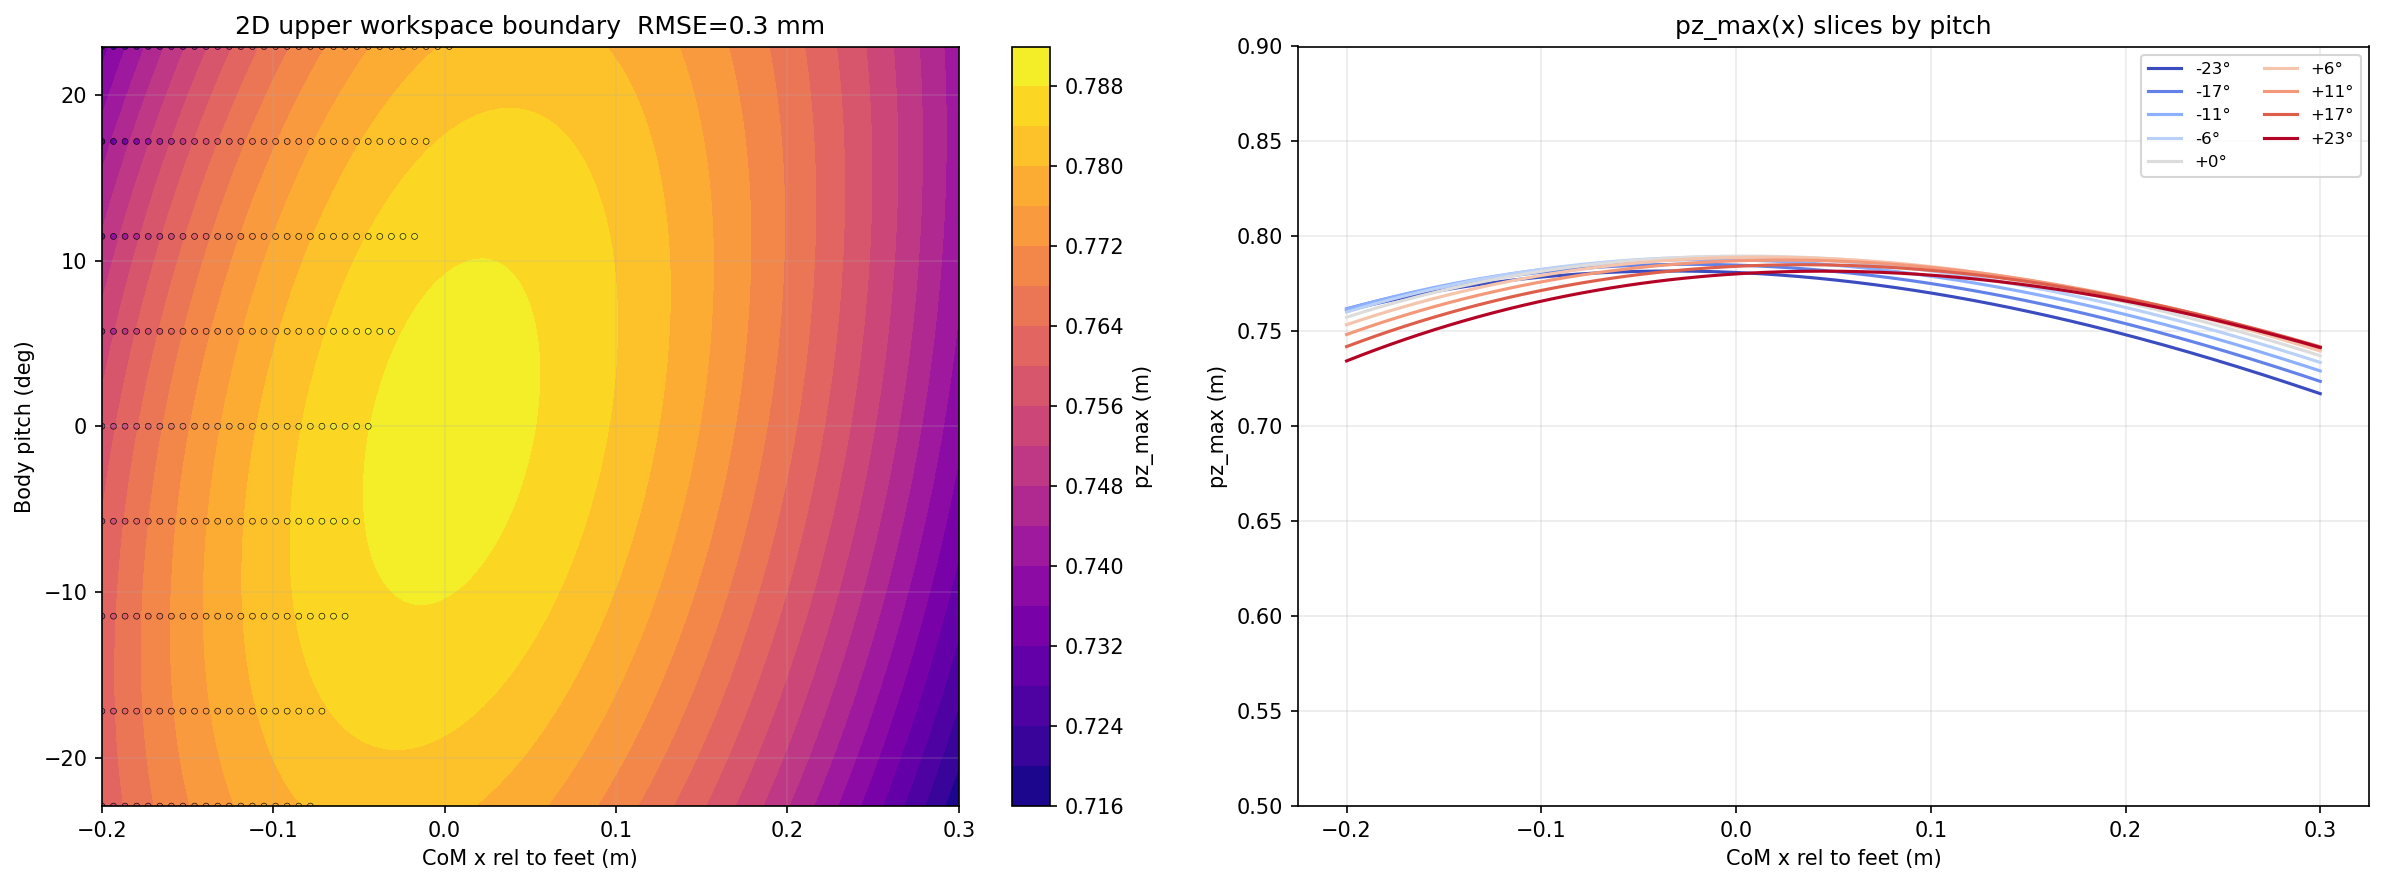
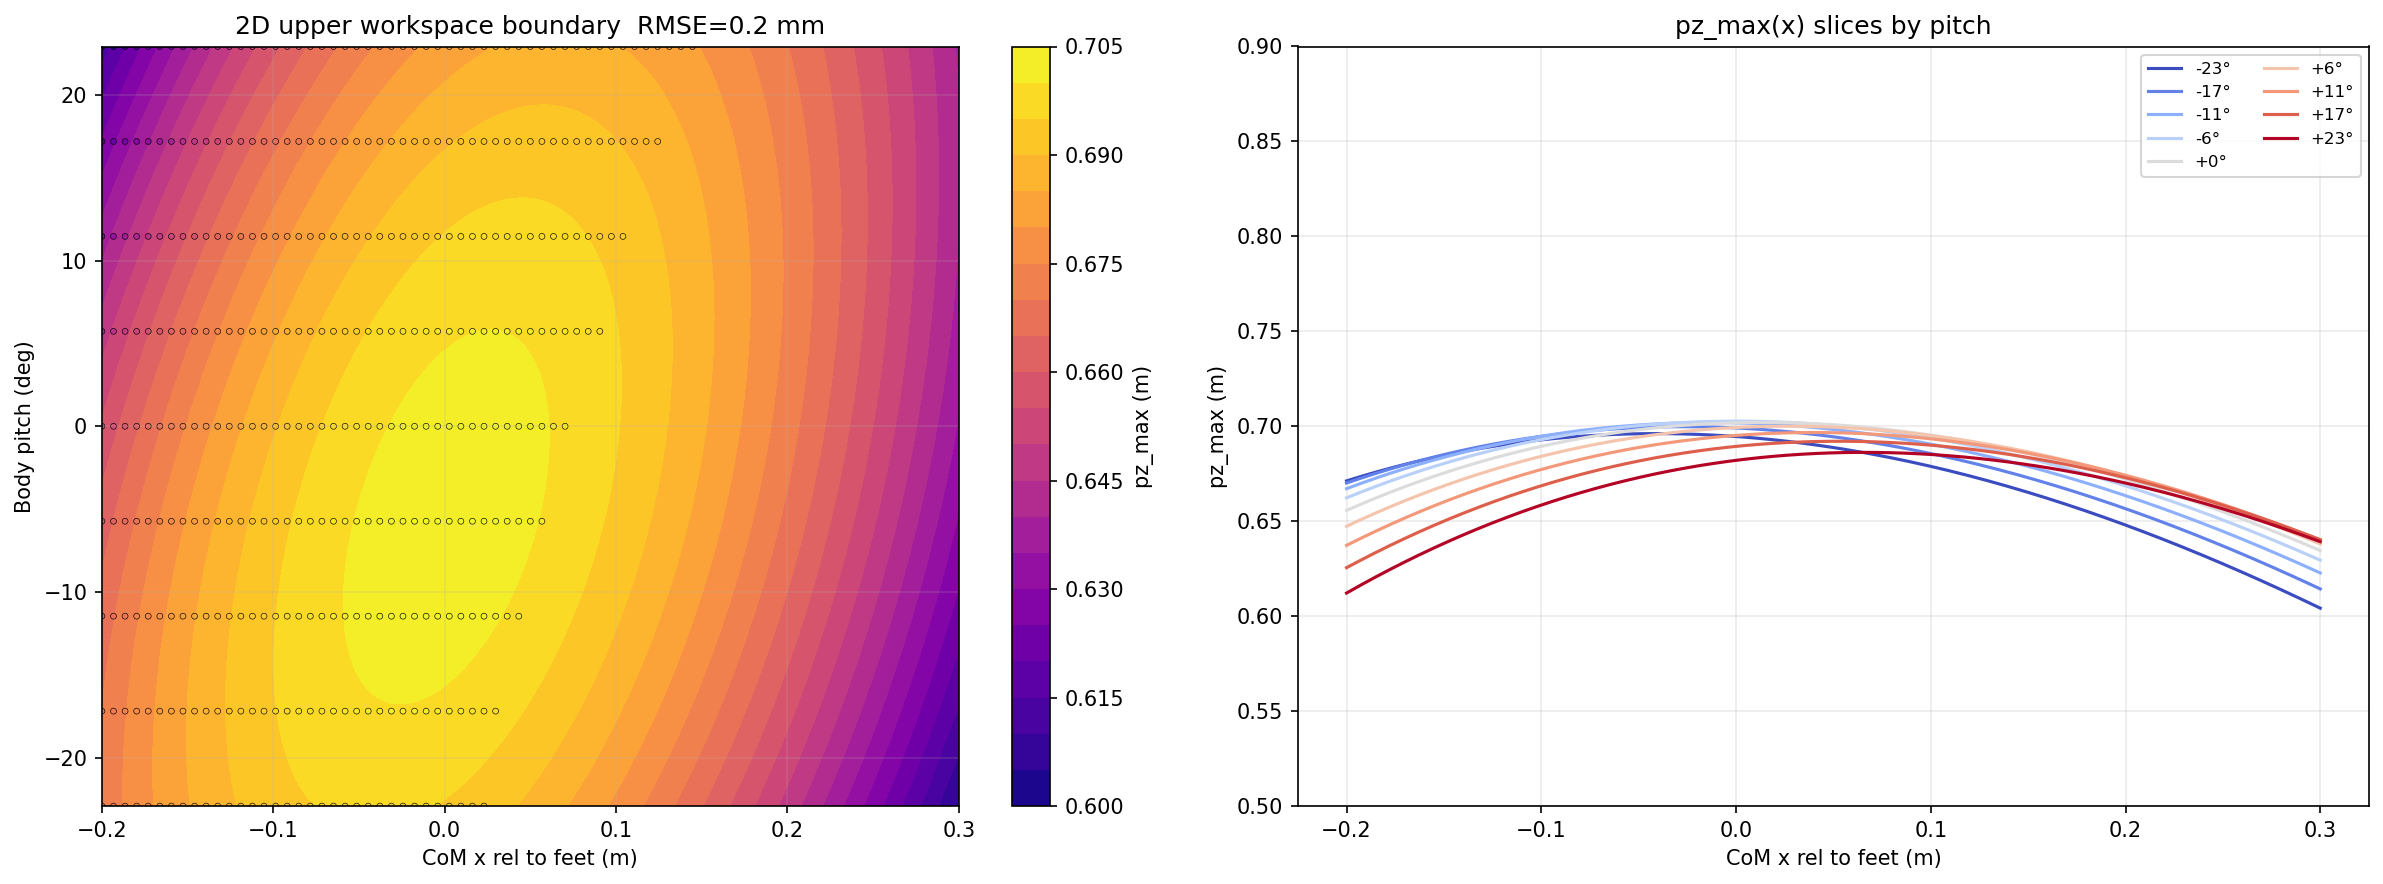
forward jump mostly working except 3cm ik error at touchdown

diff --git a/ik/squat_workspace_upper.py b/ik/squat_workspace_upper.py
@@ -29,16 +29,24 @@ import matplotlib
 matplotlib.use("Agg")
 import matplotlib.pyplot as plt
 
-from utils.kinematics.g1_ik import G1IK
+from utils.kinematics.g1_ipopt_ik import G1IPOPTIK
 
 _OUT_DIR = os.path.join(os.path.dirname(os.path.abspath(__file__)), "results")
 os.makedirs(_OUT_DIR, exist_ok=True)
 
-ik = G1IK()
+# Use IPOPTIK so the sweep measures pz_max in CoM-height units, matching the SRB
+# constraint.  G1IK fixes the pelvis height which is ~0.089 m above the CoM —
+# using it would over-estimate pz_max and leave a blind spot at near-full extension.
+ik = G1IPOPTIK()
 
 R_flat  = np.eye(3)
-oMl_des = pin.SE3(R_flat, np.array([0.0,  G1IK.HIP_WIDTH, G1IK.ANKLE_HEIGHT]))
-oMr_des = pin.SE3(R_flat, np.array([0.0, -G1IK.HIP_WIDTH, G1IK.ANKLE_HEIGHT]))
+oMl_des = pin.SE3(R_flat, np.array([0.0,  G1IPOPTIK.HIP_WIDTH, G1IPOPTIK.ANKLE_HEIGHT]))
+oMr_des = pin.SE3(R_flat, np.array([0.0, -G1IPOPTIK.HIP_WIDTH, G1IPOPTIK.ANKLE_HEIGHT]))
+
+# CoM-to-pelvis vertical offset for a near-standing G1 configuration.
+# Used to seed the pelvis initial-guess higher than the CoM target so IPOPT
+# starts near the feasible region rather than from below.
+_COM_PELVIS_OFFSET = 0.089
 
 PITCHES_SWEEP = np.linspace(-0.40, 0.40, 9)   # rad
 
@@ -51,66 +59,64 @@ def _set_pitch(q, pitch_rad):
     return q
 
 
-def _guesses(x, z, pitch):
-    NOMINAL_H = 0.79
-    drop = max(0.0, NOMINAL_H - z)
-
-    qA = ik.standing_config(com_height=z)
-    qA[0] = x
-
-    qB = pin.neutral(ik.model)
-    qB[0] = x; qB[2] = z
-    for name, angle in [
-        ("left_hip_pitch_joint",    np.clip(drop * 1.5, 0, np.radians(90))),
-        ("right_hip_pitch_joint",   np.clip(drop * 1.5, 0, np.radians(90))),
-        ("left_knee_joint",         np.clip(drop * 3.0, 0.05, np.radians(155))),
-        ("right_knee_joint",        np.clip(drop * 3.0, 0.05, np.radians(155))),
-        ("left_ankle_pitch_joint",  np.clip(-drop * 1.5, np.radians(-45), 0)),
-        ("right_ankle_pitch_joint", np.clip(-drop * 1.5, np.radians(-45), 0)),
-    ]:
-        jid = ik.model.getJointId(name)
-        qB[ik.model.joints[jid].idx_q] = angle
-
-    # near-full-extension guess (relevant for upper bound search)
-    qC = ik.standing_config(com_height=z)
-    qC[0] = x
-    for name, angle in [
-        ("left_hip_pitch_joint",   0.05),
-        ("right_hip_pitch_joint",  0.05),
-        ("left_knee_joint",        0.10),
-        ("right_knee_joint",       0.10),
-        ("left_ankle_pitch_joint", -0.05),
-        ("right_ankle_pitch_joint",-0.05),
-    ]:
-        jid = ik.model.getJointId(name)
-        qC[ik.model.joints[jid].idx_q] = angle
-
-    return [_set_pitch(q.copy(), pitch) for q in (qA, qB, qC)]
+def _make_q0(x, z_com, pitch, warm=None):
+    """
+    Build initial guess for IPOPTIK.
+    q0[0:3] = p_com_des = (x, 0, z_com).
+    Pelvis seeded at z_com + COM_PELVIS_OFFSET so IPOPT starts near the
+    feasible region for near-full-extension configurations.
+    """
+    # standing_config sets pelvis at the given height; using z_com+offset
+    # gives IPOPT a better starting pelvis position.
+    q0 = ik.standing_config(z_com + _COM_PELVIS_OFFSET)
+    q0[0] = x
+    q0[2] = z_com          # p_com_des for IPOPTIK
+    _set_pitch(q0, pitch)
+    return q0
 
 
-def is_reachable(x, z, pitch, warm=None):
+def _guesses(x, z_com, pitch, warm=None):
     candidates = []
     if warm is not None:
-        w = warm.copy(); w[0] = x; w[2] = z
+        w = warm.copy()
+        w[0] = x
+        w[2] = z_com
         _set_pitch(w, pitch)
         candidates.append(w)
-    candidates.extend(_guesses(x, z, pitch))
-    for q0 in candidates:
-        q_sol, ok, _ = ik.solve(q0, oMl_des, oMr_des, max_iter=200, tol=1e-5)
-        if ok:
+
+    # near-extension guess (primary for upper-bound search)
+    qA = _make_q0(x, z_com, pitch)
+    candidates.append(qA)
+
+    # slightly more bent — helps when the near-extension guess doesn't converge
+    qB = ik.standing_config(z_com + _COM_PELVIS_OFFSET - 0.05)
+    qB[0] = x; qB[2] = z_com
+    _set_pitch(qB, pitch)
+    candidates.append(qB)
+
+    return candidates
+
+
+def is_reachable(x, z_com, pitch, warm=None):
+    """Returns (reachable: bool, q_sol or None) for CoM at (x, 0, z_com)."""
+    for q0 in _guesses(x, z_com, pitch, warm=warm):
+        q_sol, ok, errs = ik.solve(q0, oMl_des, oMr_des)
+        if ok and errs[0] < 2e-3:   # foot error < 2 mm
             return True, q_sol
     return False, None
 
 
-# geometric upper bound on z given leg reach L_REACH
+# Geometric upper bound on CoM z given reach.
+# At max extension: dist(CoM, foot) ≈ dist(pelvis, foot) - COM_PELVIS_OFFSET
+# pelvis-to-foot = L_REACH  →  CoM-to-foot_z = L_REACH - COM_PELVIS_OFFSET
 L_REACH = 0.78
 def z_geom_max(x):
-    inner = L_REACH**2 - x**2 - G1IK.HIP_WIDTH**2
+    inner = (L_REACH - _COM_PELVIS_OFFSET)**2 - x**2 - G1IPOPTIK.HIP_WIDTH**2
     if inner <= 0:
         return None
-    return np.sqrt(inner) + G1IK.ANKLE_HEIGHT
+    return np.sqrt(inner) + G1IPOPTIK.ANKLE_HEIGHT
 
-# A safe low height where IK always succeeds (used as bisection lower anchor)
+# A safe low CoM height where IK always succeeds (bisection lower anchor)
 Z_LOW_ANCHOR = 0.55
 
 x_vals  = np.linspace(-0.20, 0.30, 75)

diff --git a/srb/srb_aerial.py b/srb/srb_aerial.py
@@ -29,6 +29,10 @@ _WORKSPACE_COEFFS_2D = os.path.join(
     os.path.dirname(os.path.dirname(os.path.abspath(__file__))),
     "ik", "results", "workspace_poly_coeffs_2d.csv",
 )
+_WORKSPACE_COEFFS_2D_UPPER = os.path.join(
+    os.path.dirname(os.path.dirname(os.path.abspath(__file__))),
+    "ik", "results", "workspace_poly_coeffs_2d_upper.csv",
+)
 
 
 class SRB_Aerial(SRBDynamics):
@@ -342,6 +346,22 @@ if cfg.constraints.workspace_pz:
             val = val * px_sym + float(c)
         return val
 
+if cfg.constraints.workspace_pz_2d_upper:
+    if not os.path.exists(_WORKSPACE_COEFFS_2D_UPPER):
+        raise FileNotFoundError(
+            f"workspace_pz_2d_upper=True but coeffs not found: {_WORKSPACE_COEFFS_2D_UPPER}\n"
+            "Run: conda run -n env_sbo python ik/squat_workspace_upper.py"
+        )
+    _raw2d_upper = np.loadtxt(_WORKSPACE_COEFFS_2D_UPPER, delimiter=",", comments="#")
+    _mono2d_upper = [(int(r[0]), int(r[1])) for r in _raw2d_upper]
+    _c2d_upper    = [float(r[2]) for r in _raw2d_upper]
+
+    def _pz_ceiling_2d(px_sym, pitch_sym):
+        val = 0.0
+        for (i, j), c in zip(_mono2d_upper, _c2d_upper):
+            val = val + c * px_sym**i * pitch_sym**j
+        return val
+
 # dynamics and phase constraints
 for k in range(N):
     if k < stance_end:
@@ -490,13 +510,28 @@ else:
         else:
             opti.subject_to(X[2, k] >= pz_min)
 
-# pz_max — upper bound on CoM height during contact phases only.
-# Ensures IPOPT IK always has a feasible solution: at the max CoM height the
-# G1 legs are at full extension, so any lower CoM can always reach the floor.
+# pz_max — scalar upper bound on CoM height during contact phases.
 if cfg.constraints.pz_max is not None:
     for k in range(N + 1):
         if k < stance_end or k >= flight_end:
             opti.subject_to(X[2, k] <= cfg.constraints.pz_max)
+
+# pz_touchdown_max — scalar upper bound on CoM z at the touchdown frame only.
+if cfg.constraints.pz_touchdown_max is not None:
+    opti.subject_to(X[2, flight_end] <= cfg.constraints.pz_touchdown_max)
+
+# workspace_pz_2d_upper — IK-derived upper bound pz <= pz_max_poly(x_rel, pitch).
+# Applied only at the liftoff and touchdown boundary frames where the IK is most
+# constrained (near-full leg extension).  Later landing frames can have higher CoM
+# as the robot stands up — IPOPTIK warm-starts fine from the previous frame there.
+if cfg.constraints.workspace_pz_2d_upper:
+    k = stance_end - 1   # liftoff
+    x_rel = X[0, k] - x_stance_center
+    opti.subject_to(X[2, k] <= _pz_ceiling_2d(x_rel, _pitch_from_quat(k)))
+
+    k = flight_end        # touchdown
+    x_rel = X[0, k] - x_land_center
+    opti.subject_to(X[2, k] <= _pz_ceiling_2d(x_rel, _pitch_from_quat(k)))
 
 # contact constraints
 for k in range(N):

diff --git a/srb/config/aerial_config.py b/srb/config/aerial_config.py
@@ -89,10 +89,17 @@ class ConstraintConfig:
     # If True, use the 2D IK-derived surface pz >= poly(x, pitch) from squat_workspace.py.
     # Supersedes workspace_pz and pitch_pz_coupling when active.
     workspace_pz_2d: bool = False
+    # If True, add upper bound pz <= pz_max_poly(x, pitch) from squat_workspace_upper.py.
+    # Prevents planning CoM heights the real robot cannot achieve at the given foot offset.
+    workspace_pz_2d_upper: bool = False
     # Minimum leg length (m) enforced at the last stance node (liftoff) and first
     # landing node (touchdown). 0 = disabled. Ensures near-full extension at
     # phase boundaries for physical realism and IK smoothness.
     L_extension_min: float = 0.0
+    # Upper bound on CoM z at the touchdown frame only (k=flight_end).
+    # Prevents planning near-full-extension landings where IK fails.
+    # None = unconstrained.
+    pz_touchdown_max: Optional[float] = None
 
 
 
